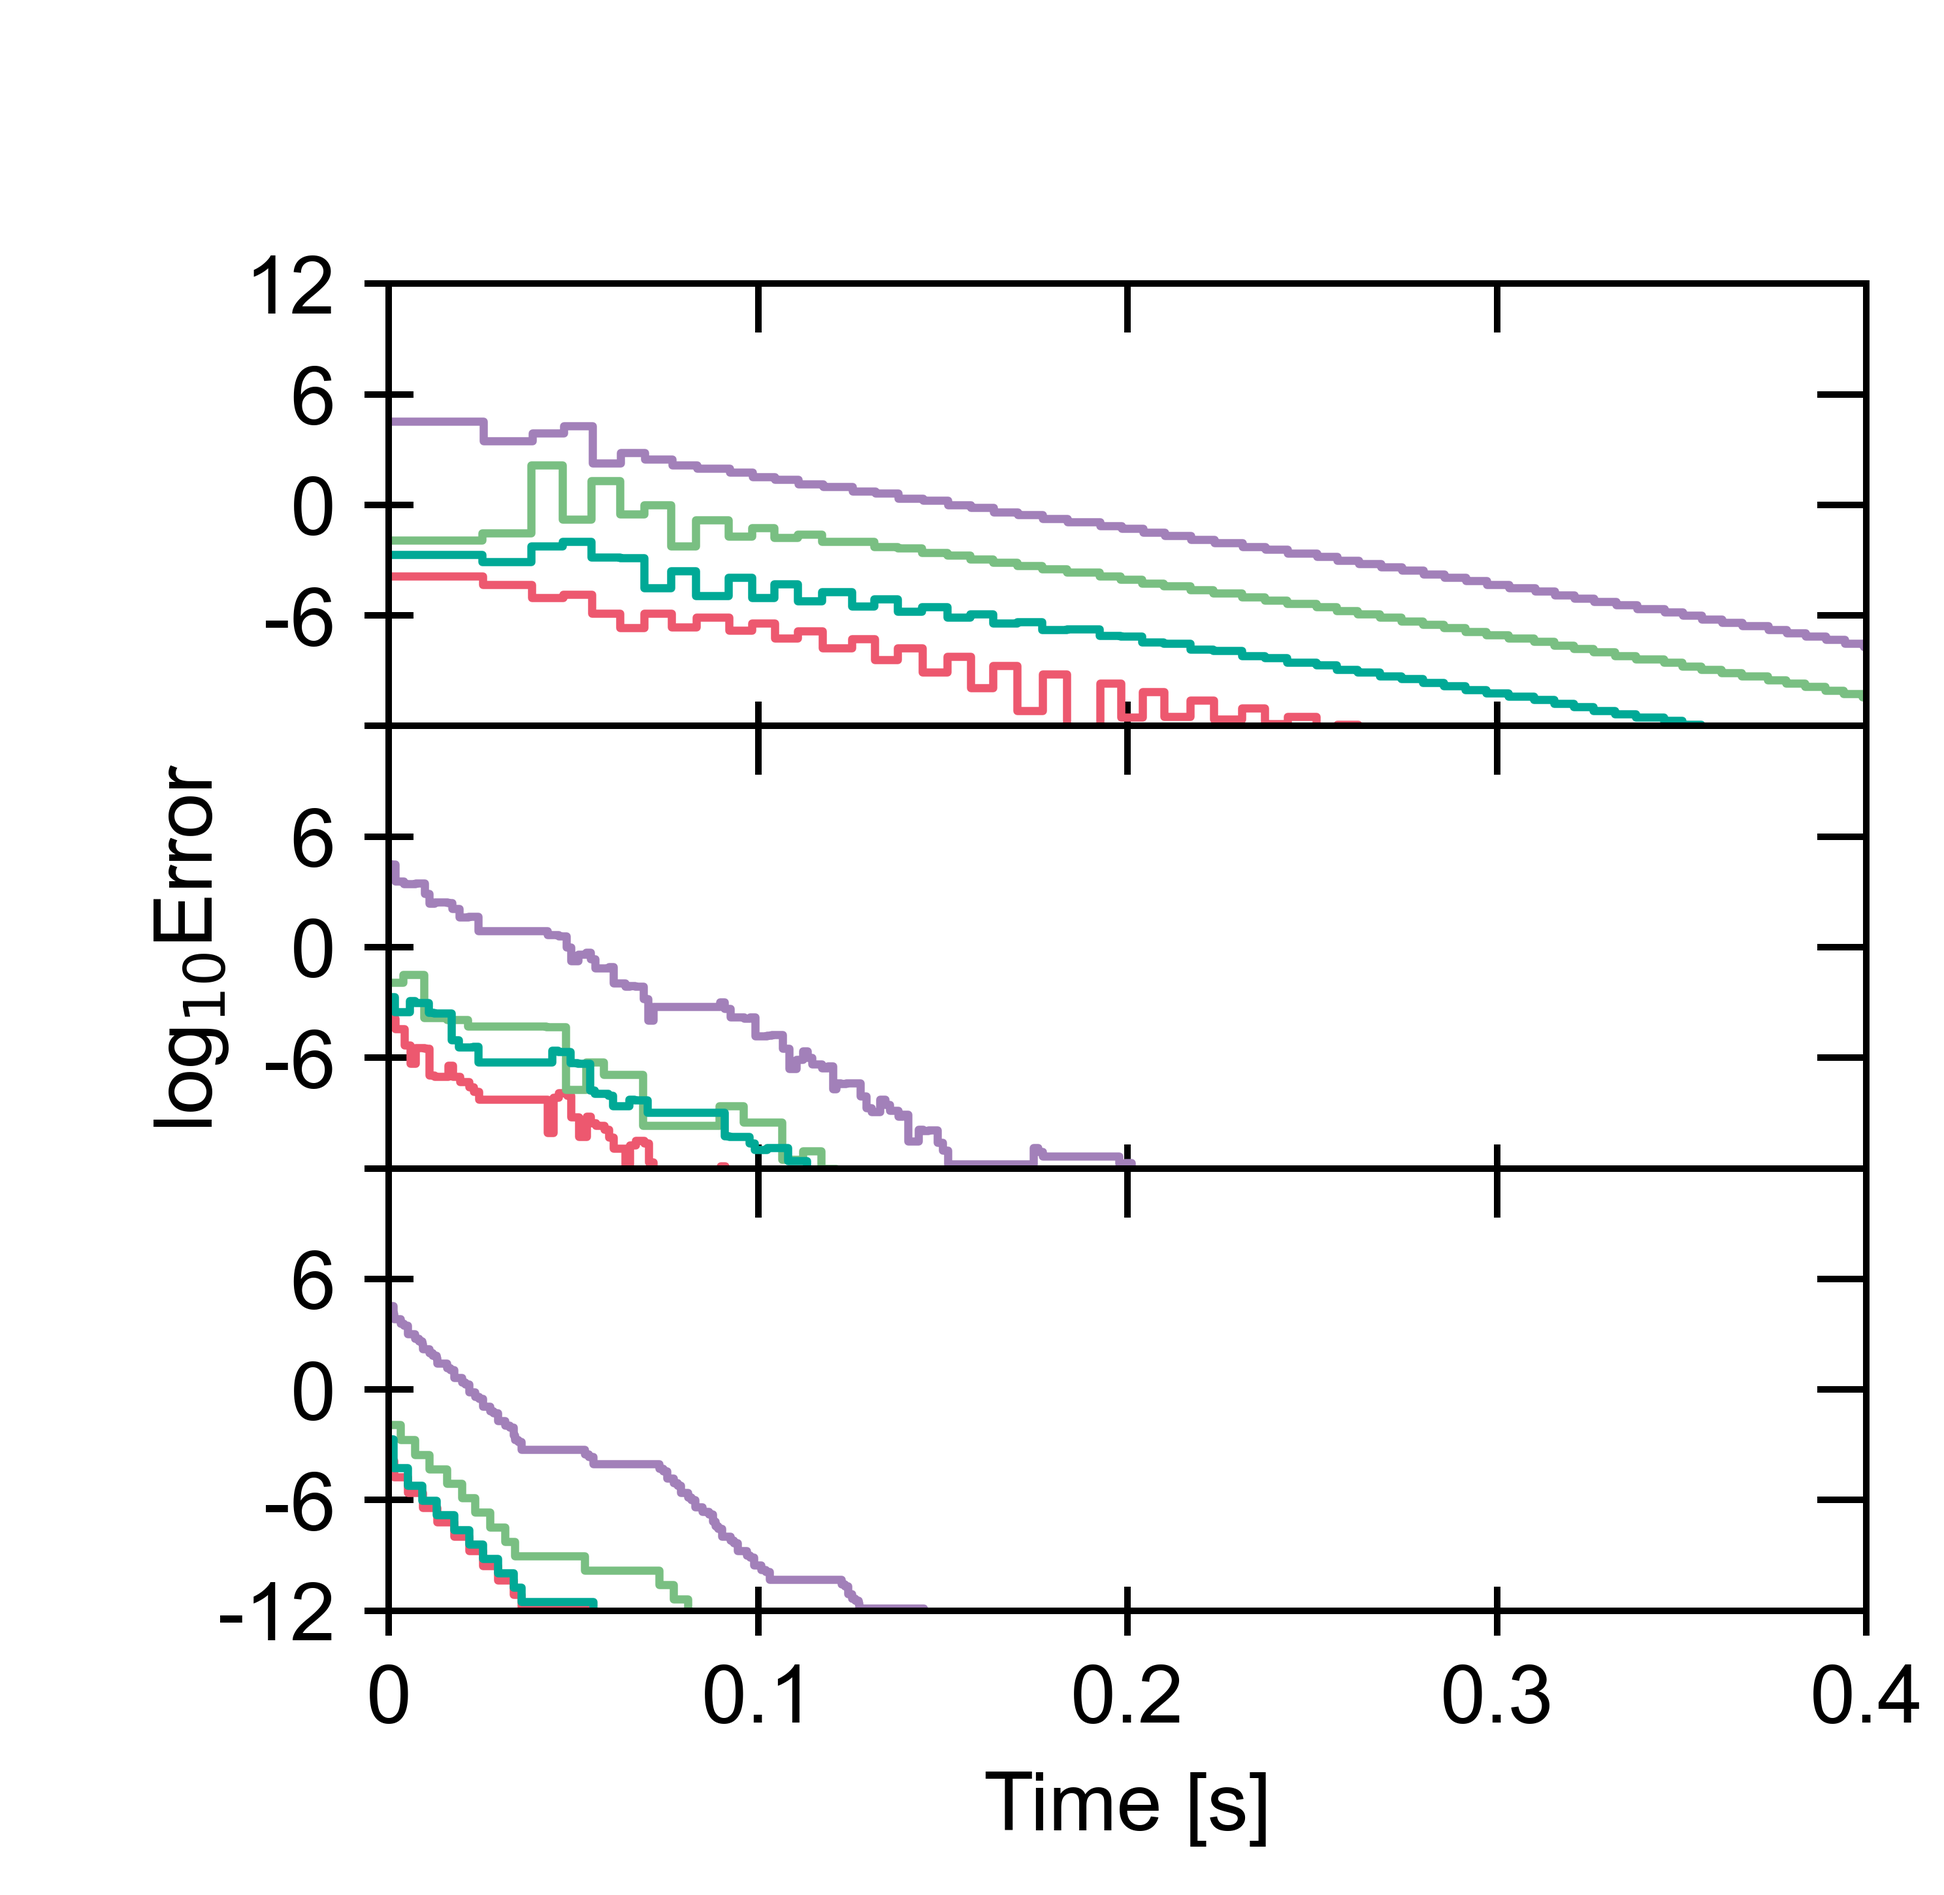
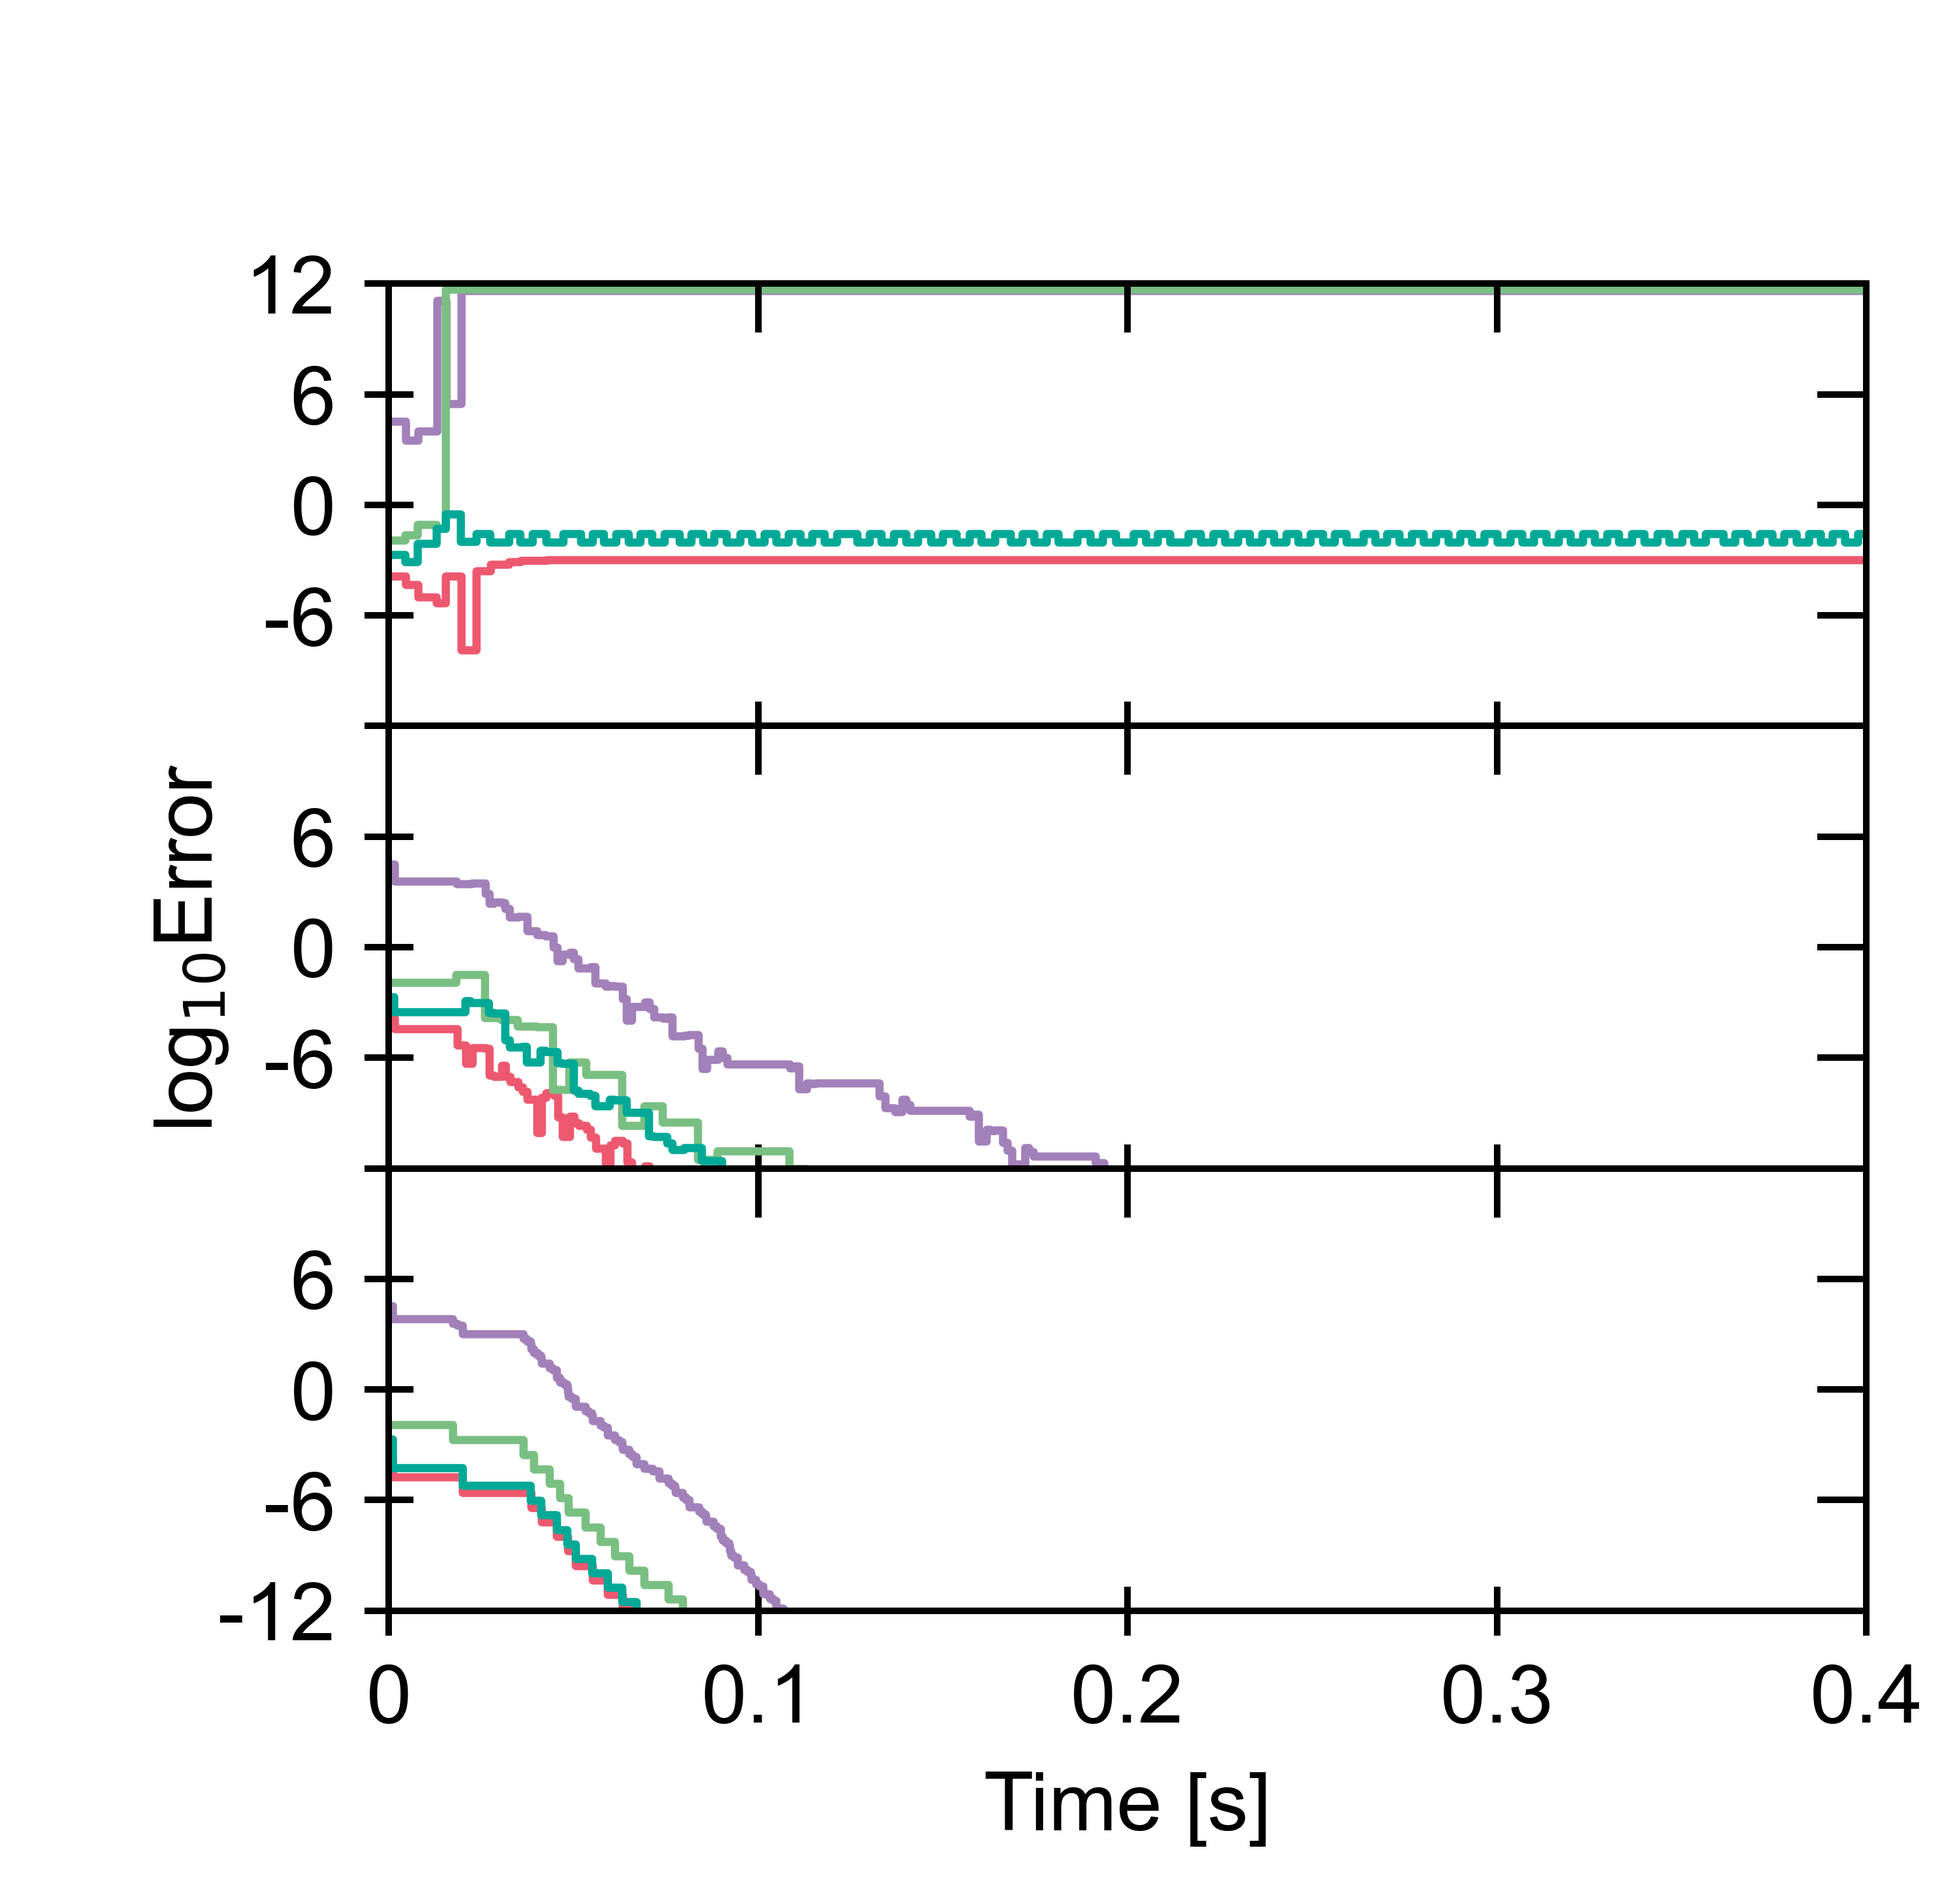
updates for improved algorithm in biosteam

diff --git a/benchmark/systems/acetic_acid_system.py b/benchmark/systems/acetic_acid_system.py
@@ -13,6 +13,8 @@ __all__ = (
     'create_acetic_acid_complex_decoupled_system',
 )
 
+bst.MultiStageEquilibrium.default_optimize_result = False
+
 def create_acetic_acid_simple_system(alg, ideal=False):
     solvent_feed_ratio = 1
     IDs = ['Water', 'AceticAcid', 'EthylAcetate']
@@ -36,7 +38,6 @@ def create_acetic_acid_simple_system(alg, ideal=False):
             phases=('L', 'l'),
             maxiter=200,
             use_cache=True,
-            method='fixed-point',
             partition_data={
                 'IDs': IDs,
                 'K': Ks,
@@ -59,7 +60,6 @@ def create_acetic_acid_simple_system(alg, ideal=False):
             boilup=2.57,
             full_condenser=True,
             maxiter=200,
-            method='fixed-point',
             use_cache=True,
             LHK=('EthylAcetate', 'AceticAcid'),
         )
@@ -194,12 +194,9 @@ def create_acetic_acid_complex_system(
             EtAc_recycle = solvent_recycle.imass['EthylAcetate']
             EtAc_required = broth * solvent_feed_ratio
             if EtAc_required < EtAc_recycle:
-                solvent_recycle.F_mass *= EtAc_required / EtAc_recycle
-                EtAc_recycle = solvent_recycle.imass['EthylAcetate']
-            EtAc_fresh = EtAc_required - EtAc_recycle
-            ethyl_acetate.imass['EthylAcetate'] = max(
-                0, EtAc_fresh
-            )
+                ethyl_acetate.imass['EthylAcetate'] = 0
+            else:
+                ethyl_acetate.imass['EthylAcetate'] = EtAc_required - EtAc_recycle
         extract_feed_stage = int(extract_distillation_stages / 2)
         ED = bst.MESHDistillation(
             'extract_distillation',
@@ -426,16 +423,15 @@ def test_simple_acetic_acid_purification_system():
     sm.simulate()
 
 def test_complex_acetic_acid_purification_system():
-    bst.PhasePartition.B_relaxation_factor = 0.5
-    # po = create_acetic_acid_complex_system('phenomena-based')
-    # po.set_tolerance(mol=1e-3, rmol=1e-3, maxiter=20)
+    po = create_acetic_acid_complex_system('phenomena-based')
+    po.set_tolerance(mol=1e-3, rmol=1e-3, maxiter=20, method='fixed-point')
     sm = create_acetic_acid_complex_system('sequential modular')
-    sm.set_tolerance(mol=1e-3, rmol=1e-3, maxiter=20)
-    # po.simulate()
+    sm.set_tolerance(mol=1e-3, rmol=1e-3, maxiter=20, method='fixed-point')
+    po.simulate()
     sm.simulate()
     
 def test_complex_decoupled_acetic_acid_purification_system():
-    po = create_acetic_acid_complex_decoupled_system('phenomena-oriented')
+    po = create_acetic_acid_complex_decoupled_system('phenomena based')
     po.set_tolerance(mol=1e-3, rmol=1e-3, maxiter=20)
     sm = create_acetic_acid_complex_decoupled_system('sequential modular')
     sm.set_tolerance(mol=1e-3, rmol=1e-3, maxiter=20)

diff --git a/benchmark/profile.py b/benchmark/profile.py
@@ -61,13 +61,14 @@ bst.System.default_maxiter = 200
 bst.System.default_molar_tolerance = 1e-6
 bst.System.default_relative_molar_tolerance = 1e-6
 bst.MultiStageEquilibrium.default_optimize_result = False
-bst.MultiStageEquilibrium.default_maxiter = 20
+bst.MultiStageEquilibrium.default_maxiter = 100
 bst.MultiStageEquilibrium.max_attempts = 0 # 0 for tracking
-bst.MultiStageEquilibrium.default_molar_tolerance = 1e-9
-bst.MultiStageEquilibrium.default_relative_molar_tolerance = 1e-12
+bst.MultiStageEquilibrium.default_molar_tolerance = 1e-12
+bst.MultiStageEquilibrium.default_relative_molar_tolerance = 1e-16
 bst.MultiStageMixerSettlers.default_maxiter = 30 # 50
 bst.MultiStageMixerSettlers.max_attempts = 0
 bst.PhasePartition.B_relaxation_factor = 0.5
+bst.MultiStageEquilibrium.default_algorithms = ('phenomena', 'sequential modular')
 bst.MultiStageEquilibrium.default_methods = {'phenomena': 'fixed-point'}
 # bst.MultiStageEquilibrium.default_fallback = ('sequential', None)
 # bst.MultiStageMixerSettlers.default_fallback = None
